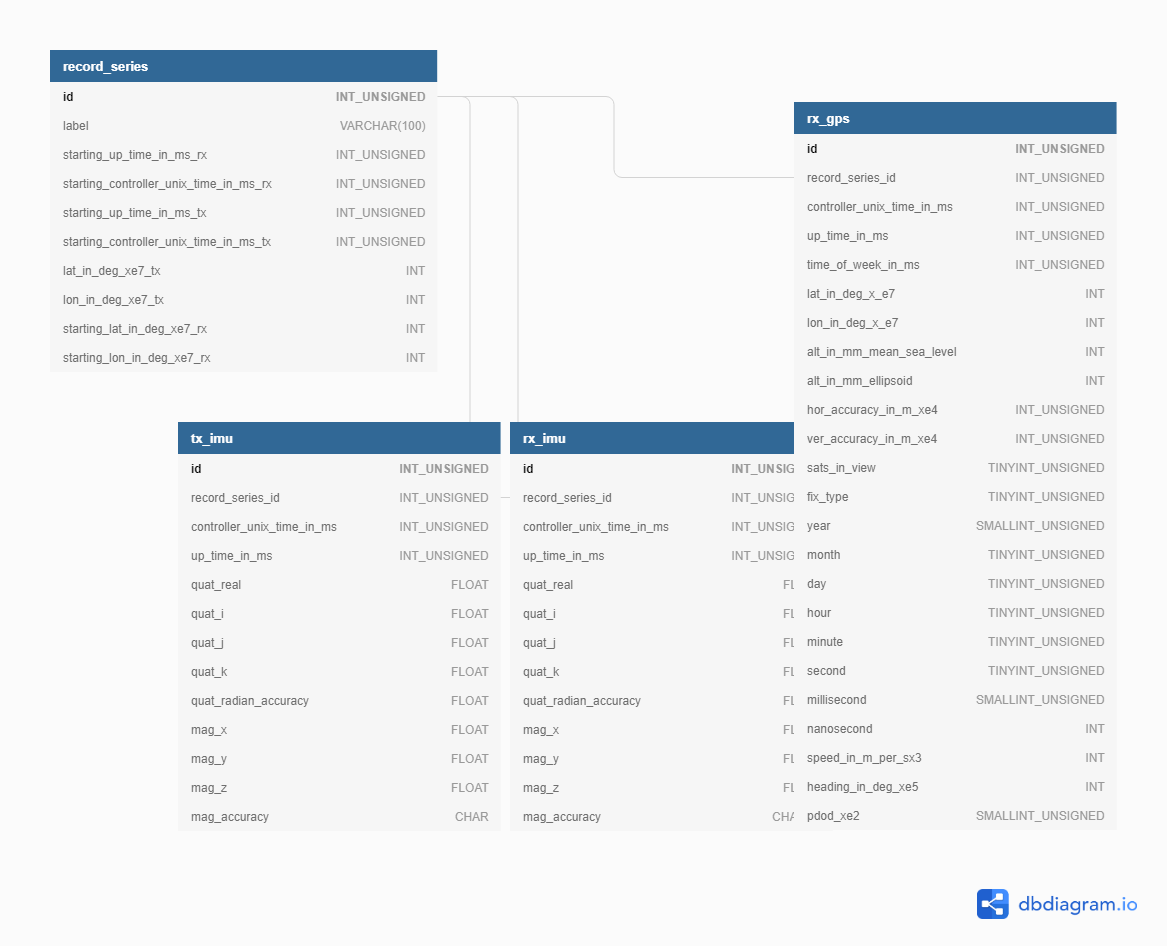
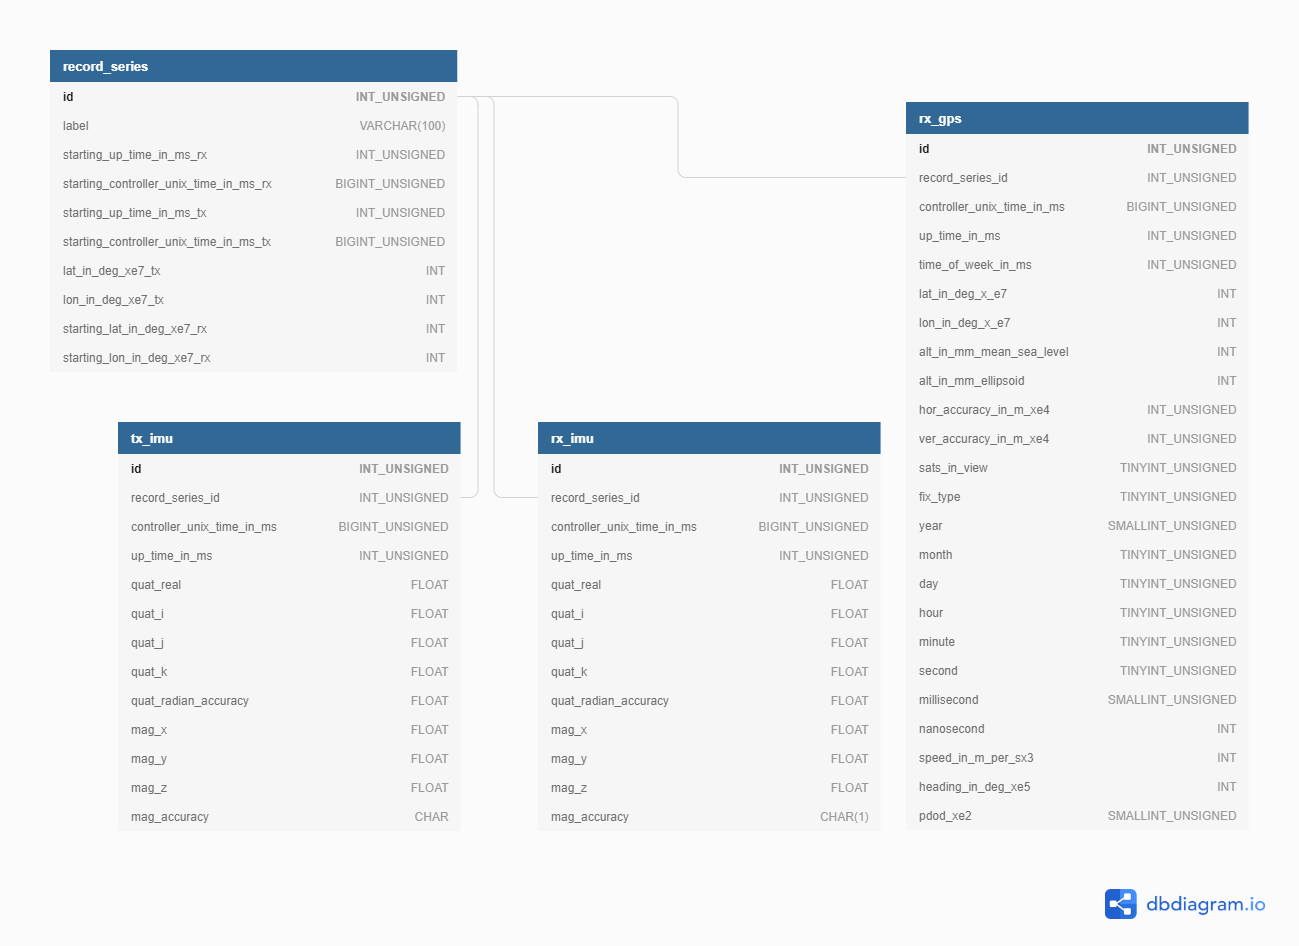
Add record_series initialization.
- Automatically add human-readable time stamp to measurement activity
  label.
  - Fix a type error in database for unix time stamp.

diff --git a/rotators/python_controller/controller.py b/rotators/python_controller/controller.py
@@ -15,7 +15,7 @@
 
 # For locating path, timing and logging.
 import os
-import time
+import time, datetime
 import logging, sys
 logging.basicConfig(stream=sys.stderr, level=logging.DEBUG)
 
@@ -222,7 +222,7 @@ def readGpsPackageFromSerial(ser):
             year, month, day, hour, minute, second, millisecond, nanosecond,
             speedInMPerSX3, headingInDegXe5, PDODXe2)
 
-def receiveDataFromSerial(ser, cur, printSurfix=''):
+def receiveDataFromSerial(ser, printSurfix=''):
     '''
     Receive one GPS data package from the serial byte stream.
     '''
@@ -272,10 +272,58 @@ def receiveDataFromSerial(ser, cur, printSurfix=''):
                 + indicationByte + "!")
             return None
 
-def createNewRecordSeries(settings, ser, cur):
+def createNewRecordSeries(settings, ser, db, cur):
     '''
     Add a new record in the record_series table on the server.
     '''
+    # SQL command to use.
+    sqlCommand = '''INSERT INTO record_series (label,
+             starting_up_time_in_ms_rx, starting_controller_unix_time_in_ms_rx,
+             starting_lat_in_deg_xe7_rx, starting_lon_in_deg_xe7_rx)
+             VALUES (%s, %s, %s, %s, %s)'''
+
+    # Wait until a valid GPS package is received.
+    flagValidGpsPackageReceived = False
+    while(not flagValidGpsPackageReceived):
+        try:
+            newSerialData = receiveDataFromSerial(ser,
+                '    Waiting for valid GPS data... Received: ')
+            # GPS package generates 22 values.
+            if (newSerialData is not None) and len(newSerialData)==22:
+                (controllerUnixTimeInMs,
+                    upTimeInMs, timeOfWeekInMs, latInDegXe7, lonInDegXe7,
+                    altInMmMeanSeaLevel, altInMmEllipsoid,
+                    horAccuracyInMXe4, verAccuracyInMXe4,
+                    satsInView, fixType,
+                    year, month, day, hour, minute, second,
+                    millisecond, nanosecond, speedInMPerSX3, headingInDegXe5,
+                    PDODXe2) = newSerialData
+                # The GPS package has valid data if the location parameters are
+                # nonzero.
+                if all((latInDegXe7, lonInDegXe7, fixType)):
+                    flagValidGpsPackageReceived = True
+        except Exception as err:
+            logging.warning(
+                "Unknown error happened while waiting for valid GPS data!")
+            logging.warning("    More info: {}".format(str(err)))
+
+    # Assemble the new entry.
+    labelPrefix = settings['measurement_attempt_label_prefix']
+    label = labelPrefix + datetime.datetime.fromtimestamp(
+        controllerUnixTimeInMs/1000.0)\
+        .astimezone().strftime(" %Y-%m-%d %H:%M:%S %Z")
+    newData = (label, upTimeInMs, controllerUnixTimeInMs,
+               latInDegXe7, lonInDegXe7)
+
+    # Upload the new entry.
+    cur.execute(sqlCommand, newData)
+    db.commit()
+
+    # Upload the GPS data, too.
+    sendGpsDataToDatabase(newSerialData, 'rx')
+
+    logging.info("Record series #" + str(cur.lastrowid) + " inserted.")
+    logging.info("    New data: " + str(newData))
     return None
 
 def fetchNewRecordSeries(cur):
@@ -284,7 +332,7 @@ def fetchNewRecordSeries(cur):
     '''
     return None
 
-def fetchNewRecordSeries(cur):
+def fetchCurrentRecordSeries(cur):
     '''
     Fetch the current record_series row.
     '''
@@ -293,7 +341,7 @@ def fetchNewRecordSeries(cur):
 def sendImuDataToDatabase():
     return None
 
-def sendGpsDataToDatabase():
+def sendGpsDataToDatabase(gpsSerialData, controllerSide):
     return None
 
 def adjustServosWhenNecessary(ser, cur, printSurfix=''):
@@ -331,6 +379,7 @@ def main():
         print("Signalling Arduino to start the auto antenna alignment procedure ...")
         serPortToArduino.write(b"r")
         # Read the acknowledgement.
+        waitForDataOnSerial(serPortToArduino)
         ackFromArduino = serPortToArduino.readline()
 
         # Determine which side (TX/RX) the controller is at.
@@ -382,14 +431,19 @@ def main():
             #   - automatic antenna alignment.
             try:
                 if controllerSide == 'rx':
-                    createNewRecordSeries(settings, serPortToArduino, databaseCur)
+                    # Only the RX can create new record in the table record_series.
+                    createNewRecordSeries(settings, serPortToArduino,
+                        databaseConnection, databaseCur)
                 elif controllerSide == 'tx':
-                    fetchNewRecordSeries(databaseCur)
+                    # The RX will wait for new RX data entries and fetch and
+                    # update the latest record_series record accordingly.
+                    fetchCurrentRecordSeries(databaseCur)
+                    updateCurrentRecordSeriesWithTxTimestamps(databaseCur)
 
                 while(True):
-                    # Fetching and processing all incoming messages from the
+                    # Fetch and process all incoming messages from the
                     # Arduino.
-                    sensorData = receiveDataFromSerial(serPortToArduino, databaseCur,
+                    sensorData = receiveDataFromSerial(serPortToArduino,
                         '    Arduino (Sensor Data): ')
 
                     # Compute and adjust the PMW signals if necessary.

diff --git a/README.md b/README.md
@@ -13,7 +13,7 @@ recording, the steps one needs to carry out are listed below.
 3. Measure or find on a map the TX and RX GPS locations and update the
    `settings.json` file accordingly.
 4. If desired, assign a string label to the measurement recording attempt to
-   `measurement_attempt_label` in `settings.json`.
+   `measurement_attempt_label_prefix` in `settings.json`, which will be combined with the date and time when the measurement starts for labeling that recording activity.
 5. On the RX side, initiated the CKT-GPS (Ref: <https://learn.sparkfun.com/tutorials/gps-rtk2-hookup-guide>)
    1. connect to the CKT-GPS board via USB
    2. open u-center and connect to the correct COM port
